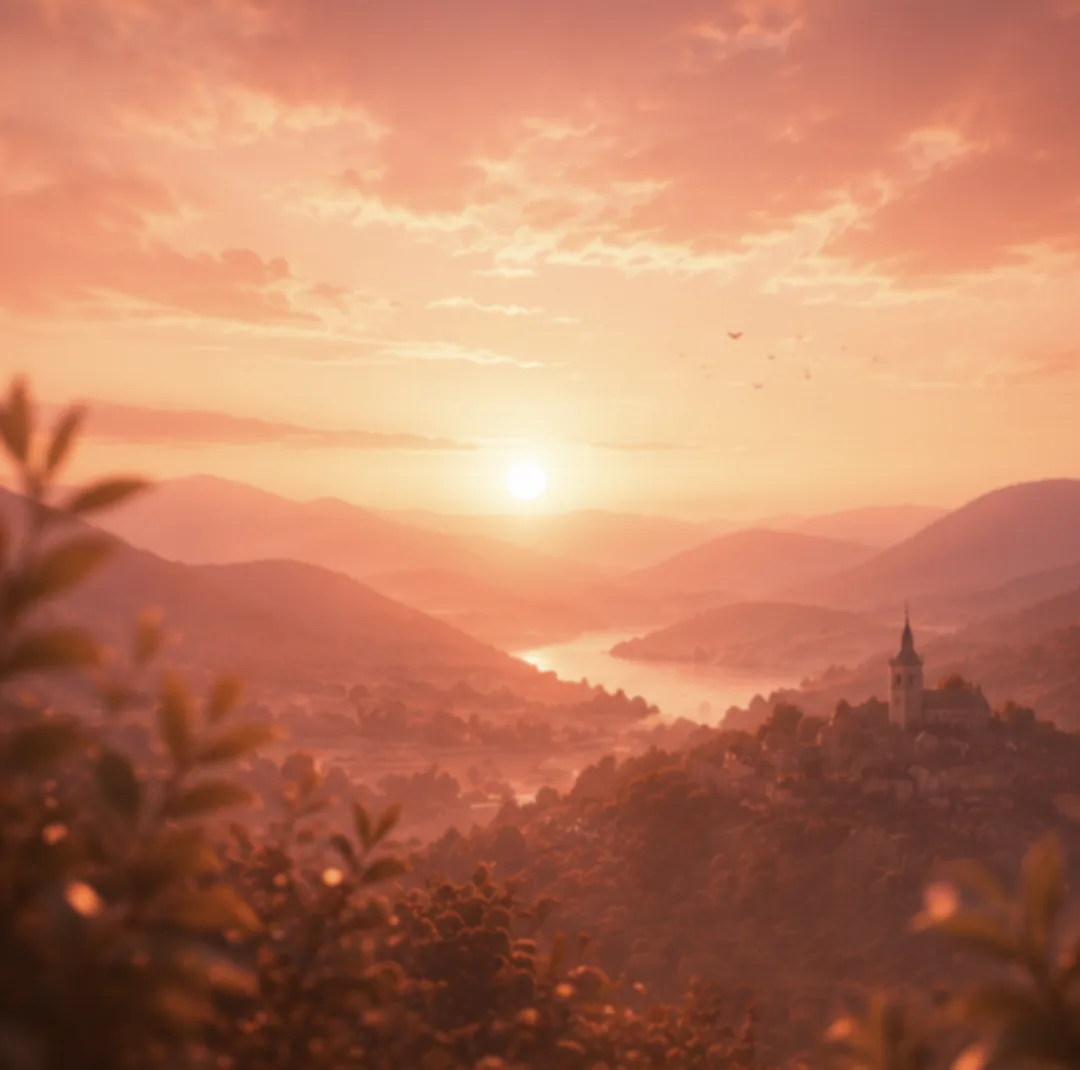
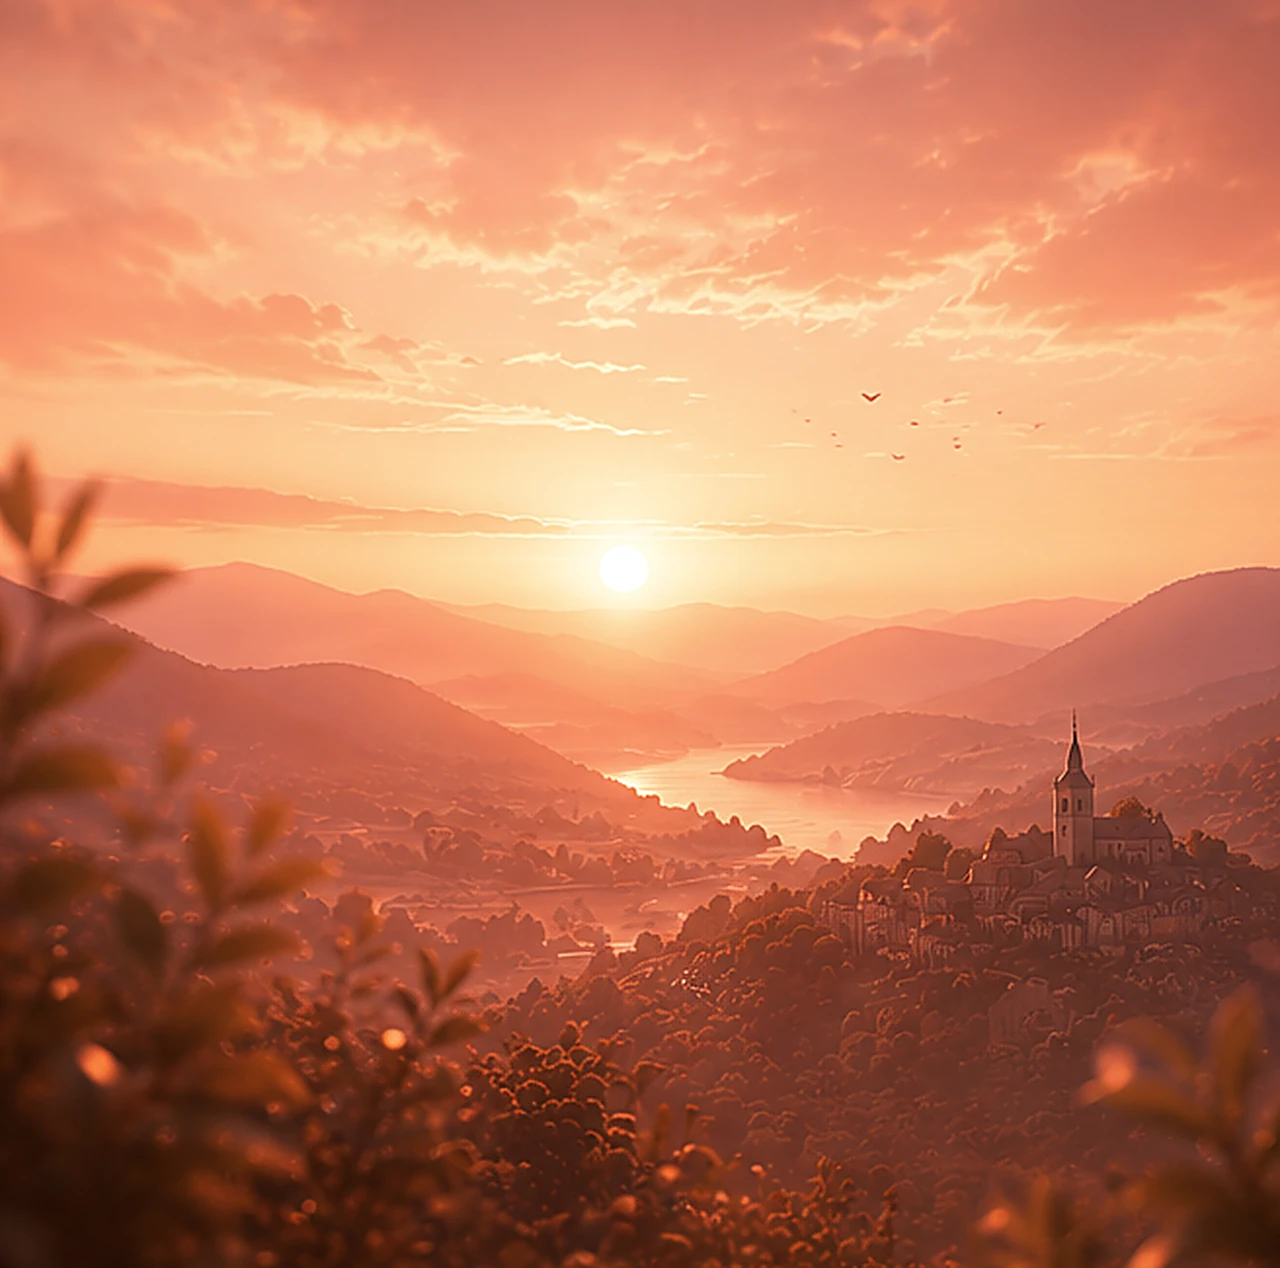
fix(theme): fonds d'ambiance plus nets (sharpen, 1280px, sans flou cuit) + flou runtime reduit
Suite retour utilisateur (fonds trop doux) : re-echantillonnage 1280px + UnsharpMask,
suppression du flou cuit, WebP q90 ; BlurView runtime reduit (8->4 clair / 16->8 sombre).
tsc=0, export web OK.

diff --git a/src/components/theme/SectionBackground.tsx b/src/components/theme/SectionBackground.tsx
@@ -56,8 +56,8 @@ export function SectionBackground({ scrollY, parallax = 22 }: Props) {
           accessible={false}
         />
       </Animated.View>
-      {/* léger flou runtime (en plus du flou léger cuit dans l'asset) — discret. */}
-      <BlurView intensity={scheme === 'dark' ? 16 : 8} tint={scheme === 'dark' ? 'dark' : 'light'} style={StyleSheet.absoluteFill} pointerEvents="none" />
+      {/* Flou runtime TRÈS léger (profondeur premium) — l'asset est net, on ne le regomme pas. */}
+      <BlurView intensity={scheme === 'dark' ? 8 : 4} tint={scheme === 'dark' ? 'dark' : 'light'} style={StyleSheet.absoluteFill} pointerEvents="none" />
       <BackgroundOverlay veil={bg.veil} veilOpacity={bg.veilOpacity} />
     </Animated.View>
   );